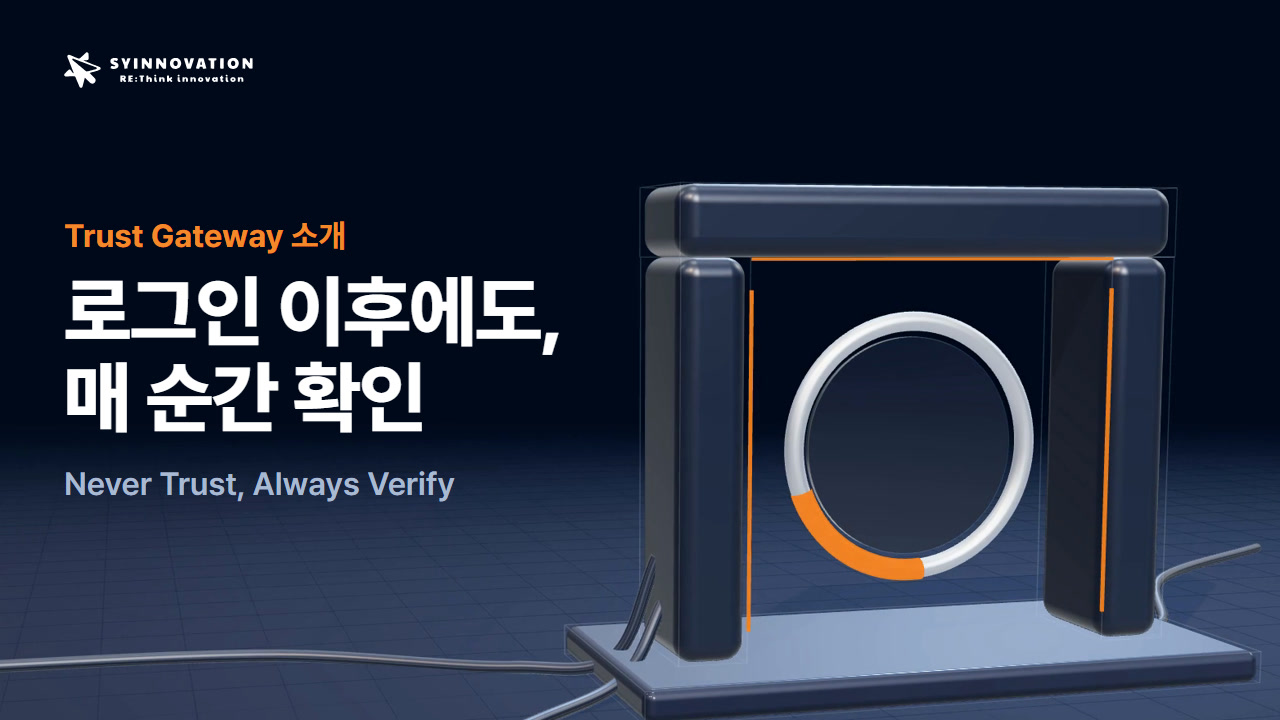
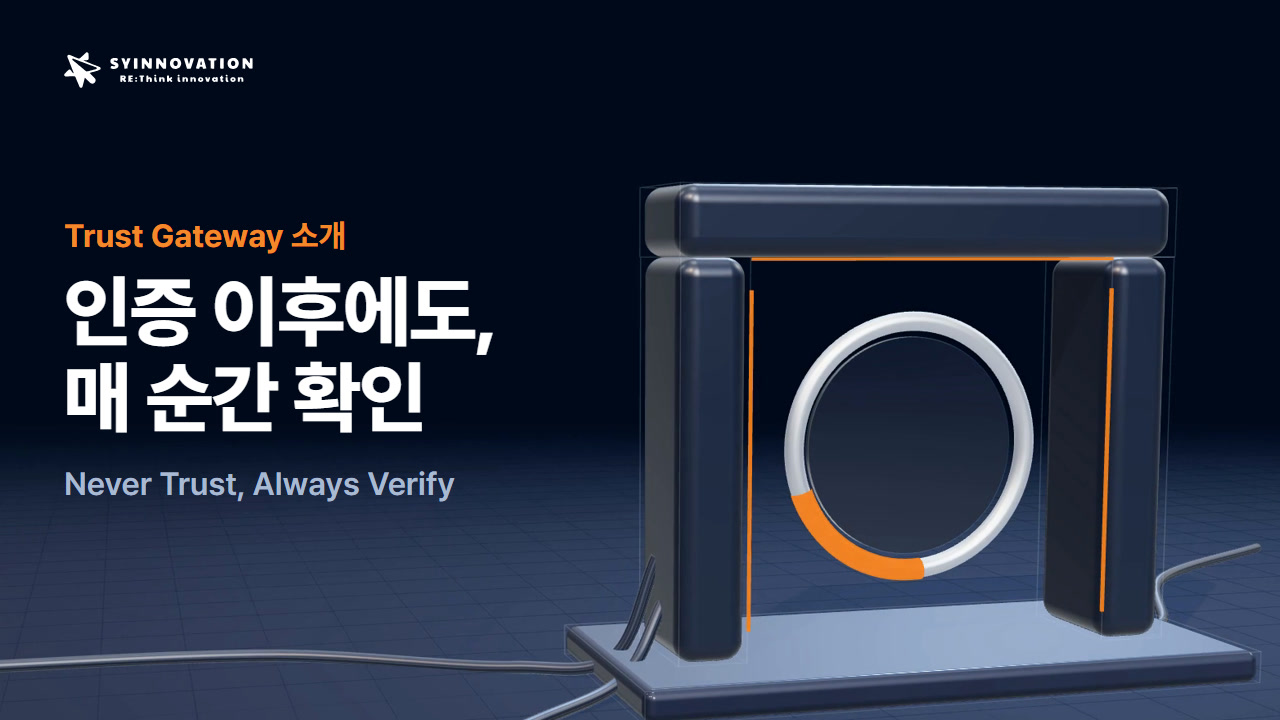
Say "인증 이후에도", not "로그인 이후에도"
The user, 2026-11-18: Trust Gateway has no password login, so its continuous check is
described as happening even after authentication (home hero and meta description,
company lead, Trust Gateway film close, glossary entry, videos page note; English
"even after authentication" in place of "even after login" / "from login to session
out"). The glossary entry also says 매 순간, not 요청마다. The intro thumbnail now
reads 인증 이후에도, 매 순간 확인.

Changed region(s): [[0.0312, 0.3667, 0.4375, 0.4889]]

diff --git a/src/data/glossary.ts b/src/data/glossary.ts
@@ -34,7 +34,7 @@ export const glossary: Term[] = [
     b: '공격자가 이미 안에 들어와 있을 수 있다고 가정합니다. 구간마다 따로 확인하고 모든 접속을 기록해, 한 곳이 뚫려도 피해가 번지지 않게 합니다.', rel: ['zero-trust', 'micro-segmentation', 'lateral-movement'] },
   { id: 'continuous-verification', aka: ['연결성 검증', '지속적 검증'], cat: 'zt', t: '지속 검증', en: 'Continuous Verification', s: '로그인 한 번으로 끝내지 않고 접속하는 동안 계속 확인하는 것',
     b: '접속 중에도 기기 상태, 위치, 행동이 달라지면 다시 판단합니다. 로그인 이후에 일어나는 탈취나 오용을 잡아내는 데 필요합니다.',
-    tg: 'Trust Gateway는 로그인 이후에도 요청마다 접속을 다시 확인합니다.', rel: ['session-hijacking', 'risk-score'] },
+    tg: 'Trust Gateway는 인증 이후에도 매 순간 접속을 다시 확인합니다.', rel: ['session-hijacking', 'risk-score'] },
   { id: 'micro-segmentation', aka: ['마이크로세그멘테이션'], cat: 'zt', t: '마이크로 세그멘테이션', en: 'Micro-segmentation', s: '네트워크와 시스템을 잘게 나눠 서로 함부로 오가지 못하게 하는 방법',
     b: '한 구역이 뚫려도 다른 구역으로 번지지 않게 막습니다. 측면 이동을 줄이는 대표적인 방법입니다.', rel: ['lateral-movement', 'least-privilege'] },
   { id: 'ztna', cat: 'zt', t: '제로트러스트 네트워크 접근', en: 'ZTNA', s: '네트워크 전체가 아니라 허락된 애플리케이션만 열어 주는 접속 방식',
